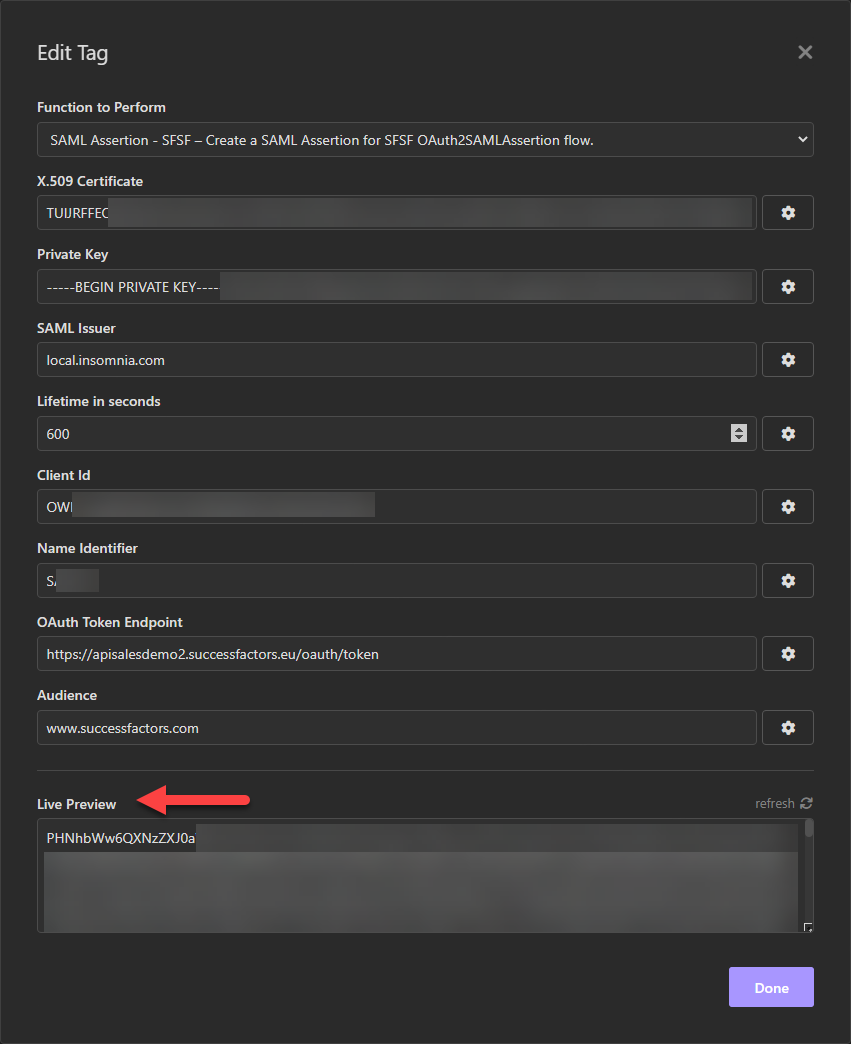
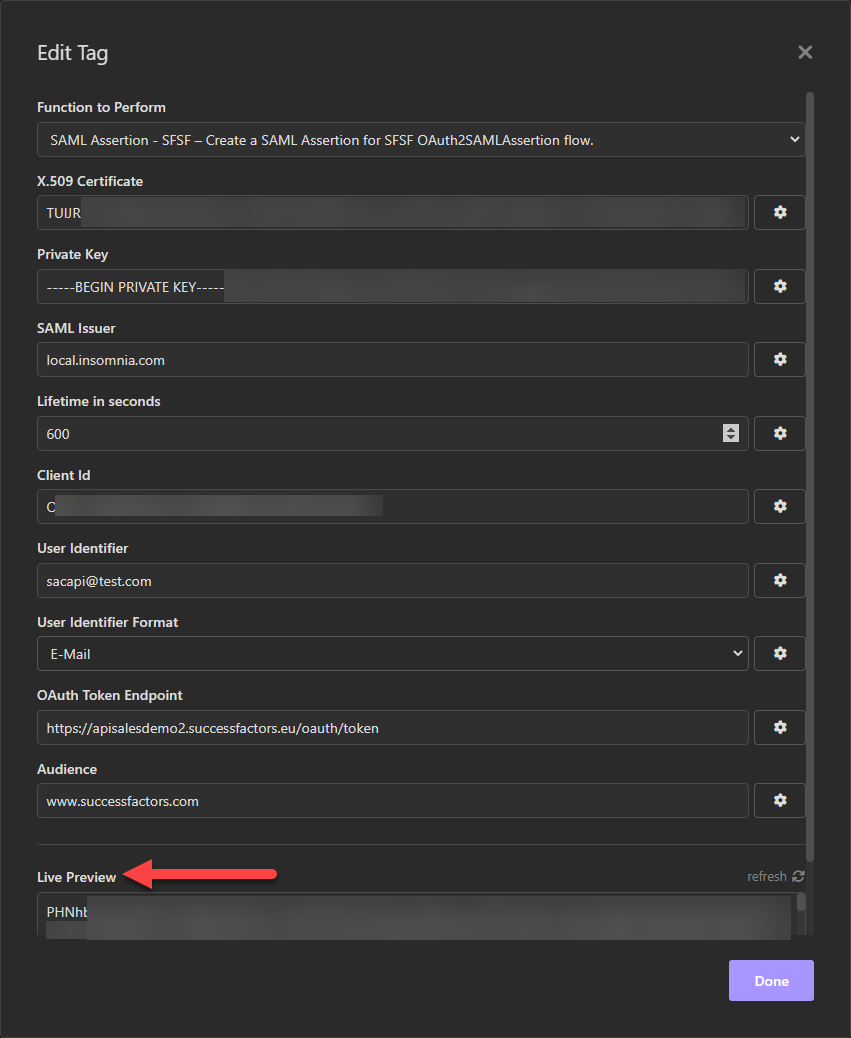
Addition of new parameter 'User Identifier Format'

Changed region(s): [[0.0306, 0.0925, 0.9777, 0.9557], [0.0306, 0.0925, 0.7027, 0.7091], [0.0917, 0.0308, 0.1222, 0.0617]]

diff --git a/src/samlAssertion.js b/src/samlAssertion.js
@@ -38,10 +38,31 @@ module.exports = {
       placeholder: "OWE1Yzg0NTMyOGJlY2M4NWRiZGFiMGE3MTI5MA",
     },
     {
-      displayName: "Name Identifier",
-      description: "User Name",
+      displayName: "User Identifier",
+      description: "User Identifier",
       type: "string",
       placeholder: "Username",
+    },
+    {
+      displayName: "User Identifier Format",
+      description: "User Identifier Format",
+      type: "enum",
+      placeholder: "User Identifier Format",
+      defaultValue: utils.userIdentifierFormat.userId,
+      options: [
+        {
+          displayName: "User ID",
+          value: utils.userIdentifierFormat.userId
+        },
+        {
+          displayName: "Username",
+          value: utils.userIdentifierFormat.userName
+        },
+        {
+          displayName: "E-Mail",
+          value: utils.userIdentifierFormat.eMail
+        },
+      ],
     },
     {
       displayName: "OAuth Token Endpoint",
@@ -64,19 +85,37 @@ module.exports = {
     lifetime,
     clientId,
     nameId,
+    userIdentifierFormat,
     tokenEndpoint,
     audience
   ) {
-    var options = {
+    let samlAttributes = {
+      api_key: clientId
+    };
+
+    var nameIdentifierFormat =
+      "urn:oasis:names:tc:SAML:1.1:nameid-format:unspecified";
+
+    switch (userIdentifierFormat) {
+      case utils.userIdentifierFormat.eMail:
+        nameIdentifierFormat =
+          "urn:oasis:names:tc:SAML:1.1:nameid-format:emailAddress";
+        break;
+      case utils.userIdentifierFormat.userName:
+        samlAttributes.use_username = "true";
+        break;
+      default:
+        break;
+    }
+    let options = {
       cert: utils.formatCertificate(cert),
       key: utils.formatPrivateKey(key),
       issuer: issuer,
       lifetimeInSeconds: lifetime,
       audiences: audience,
-      attributes: {
-        api_key: clientId,
-      },
+      attributes: samlAttributes,
       nameIdentifier: nameId,
+      nameIdentifierFormat: nameIdentifierFormat,
       recipient: tokenEndpoint,
       sessionIndex: "_" + uuid.v4(),
     };

diff --git a/src/utils.js b/src/utils.js
@@ -38,4 +38,10 @@ module.exports = {
     }
     return `-----BEGIN CERTIFICATE-----${input}-----END CERTIFICATE-----`;
   },
+
+  userIdentifierFormat: {
+    userId : "userId",
+    userName : "userName",
+    eMail : "e-Mail"
+  }
 };

diff --git a/README.md b/README.md
@@ -10,12 +10,13 @@ After successfully installing the plugin, the [Template Tag](https://docs.insomn
 - *SAML Issuer*: Name of the IdP issuing the SAML Assertion. The proposed value _local.insomnia.com_ should be a good starting point.
 - *Lifetime in seconds*: Lifetime of the SAML Assertion in seconds.
 - *Client Id*: Registered Client Id in SAP SuccessFactors, also called as _API key_ in the SFSF Documentation.
-- *Name Identifier*: User ID to be used to access the SAP SuccessFactors API's.
+- *User Identifier*: User identifier to be used to access the SAP SuccessFactors API's.
+- *User Identifier Format*: Type of *User Identifier* informed for SAML assertion. It can be one of the three following types: *User ID*, *Username* or *E-Mail*. 
 - *OAuth Token Endpoint*: The URL of the API server from which you request the OAuth token.
 - *Audience*: Value used to tag the SAML assertion. The proposed value _www.successfactors.com_ should be a good starting point.
 
 Add the _Template Tag_ and configure it where the SAML assertion is required. The SAML Assertion will be generated and returned in the Base64 format.
 
-![Template Tag configuration 1](./assets/configEx1.png)
-
 ![Template Tag configuration 2](./assets/configEx2.png)
+
+![Template Tag configuration 1](./assets/configEx1.png)
